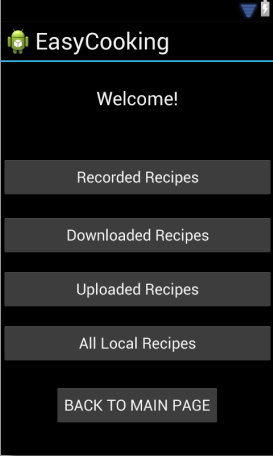
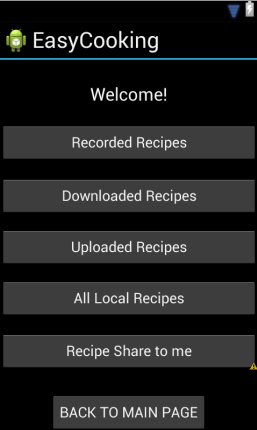
more update

diff --git a/CMPUT301W13T05/gen/com/example/easycooking/R.java b/CMPUT301W13T05/gen/com/example/easycooking/R.java
@@ -20,19 +20,20 @@ public final class R {
         public static final int button3=0x7f070002;
         public static final int button4=0x7f070003;
         public static final int button5=0x7f070001;
-        public static final int checkBox1=0x7f07000b;
-        public static final int checkBox2=0x7f07000c;
-        public static final int checkBox3=0x7f07000d;
-        public static final int checkBox4=0x7f07000e;
-        public static final int checkBox5=0x7f07000f;
+        public static final int button6=0x7f07000b;
+        public static final int checkBox1=0x7f07000c;
+        public static final int checkBox2=0x7f07000d;
+        public static final int checkBox3=0x7f07000e;
+        public static final int checkBox4=0x7f07000f;
+        public static final int checkBox5=0x7f070010;
         public static final int editText1=0x7f070000;
         public static final int listView1=0x7f070007;
-        public static final int menu_settings=0x7f070011;
+        public static final int menu_settings=0x7f070012;
         public static final int textView1=0x7f070006;
         public static final int textView2=0x7f070008;
         public static final int textView3=0x7f070009;
         public static final int textView4=0x7f07000a;
-        public static final int textView5=0x7f070010;
+        public static final int textView5=0x7f070011;
     }
     public static final class layout {
         public static final int activity_main=0x7f030000;
@@ -43,6 +44,7 @@ public final class R {
         public static final int popwindow=0x7f030005;
         public static final int result=0x7f030006;
         public static final int selection=0x7f030007;
+        public static final int sharepopwindow=0x7f030008;
     }
     public static final class menu {
         public static final int activity_main=0x7f060000;
